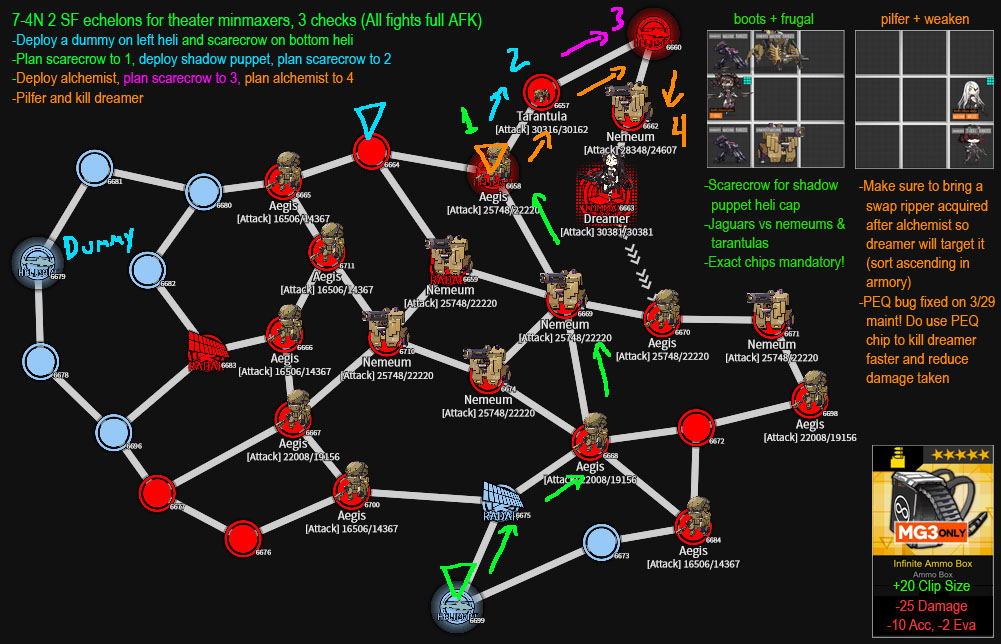
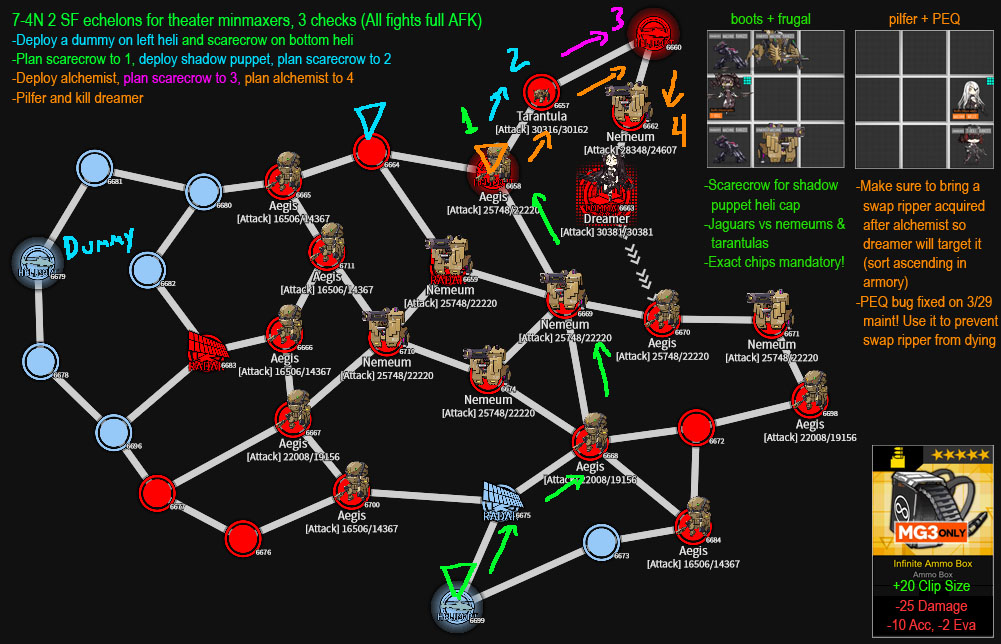
2gnk method for 7-4n

Changed region(s): [[0.8362, 0.2795, 1.0, 0.6211], [0.8671, 0.0, 0.96, 0.0621], [0.7123, 0.0, 0.8052, 0.0621]]

diff --git a/nightspeq.html b/nightspeq.html
@@ -45,7 +45,10 @@
 <img src="speqchpt/6-4n.jpg"></img>
 <p><br></p>
 <h2 id="C7">Chapter 7-4N: MG3's Ammo Box</h1><br>
-<img src="speqchpt/7-4n.jpg"></img>
+<h3>2 SF Full AFK</h3>
+<img src="speqchpt/7-4n.jpg"></img><br>
+<h3>2 G&K + SF Full AFK</h3>
+<img src="speqchpt/7-4n 2gnk.jpg"></img>
 <p><br></p>
 <h2 id="C8">Chapter 8-4N: FAMAS' Scope</h1><br>
 <img src="speqchpt/8-4n.jpg"></img>
